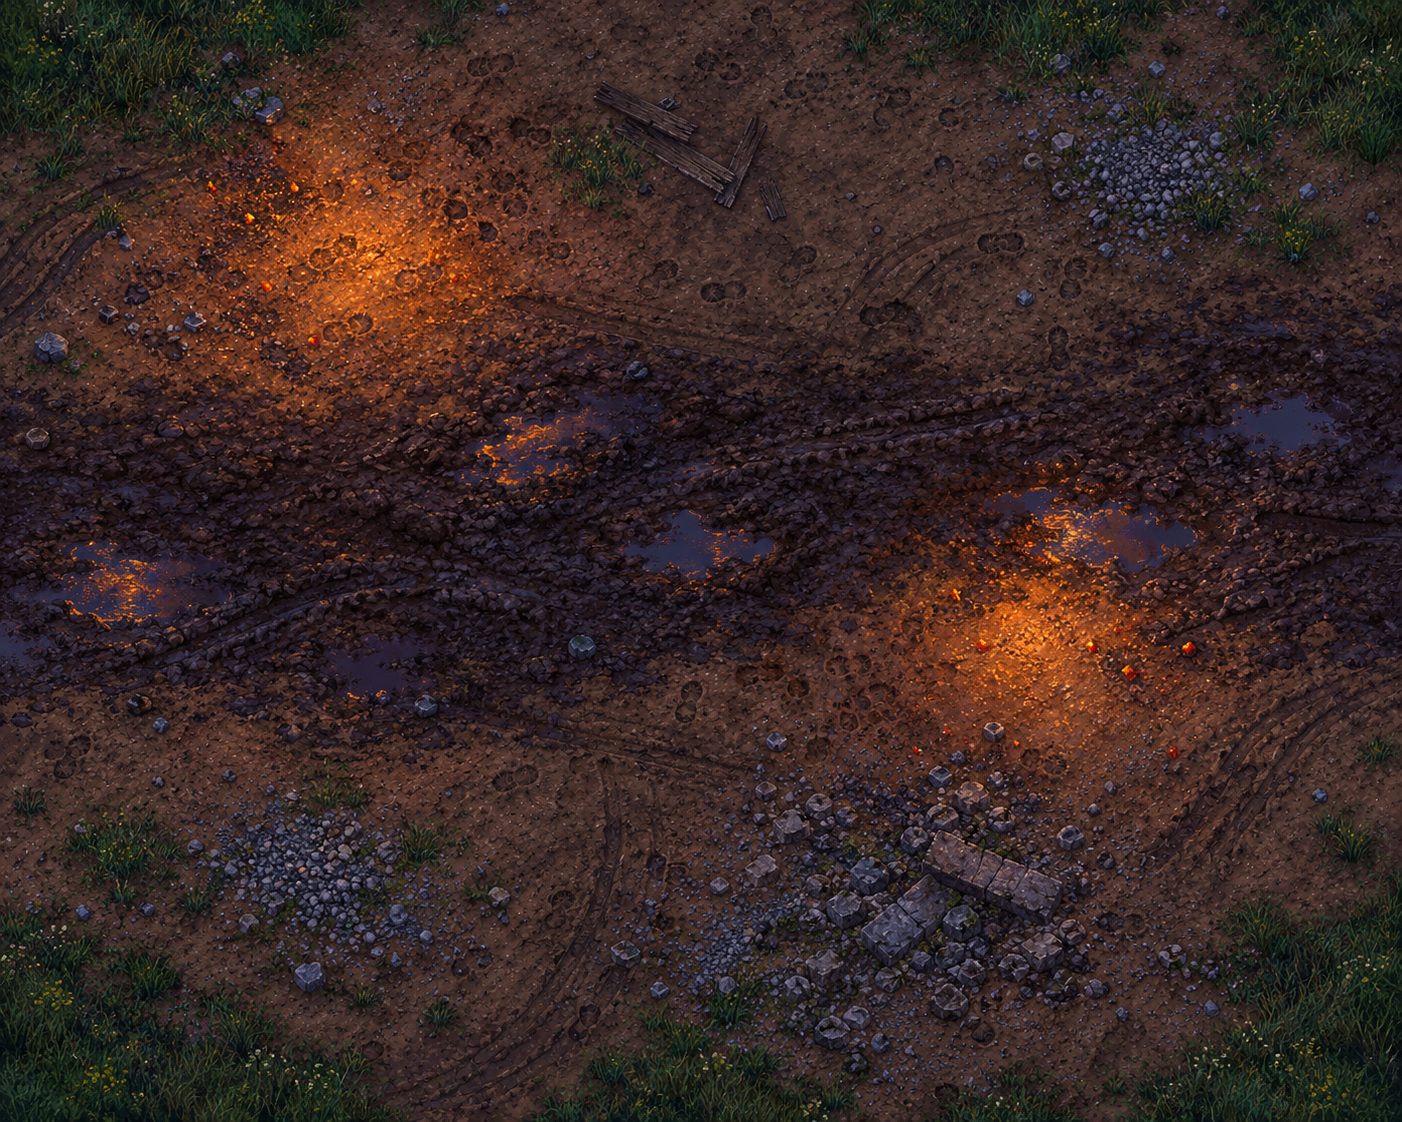
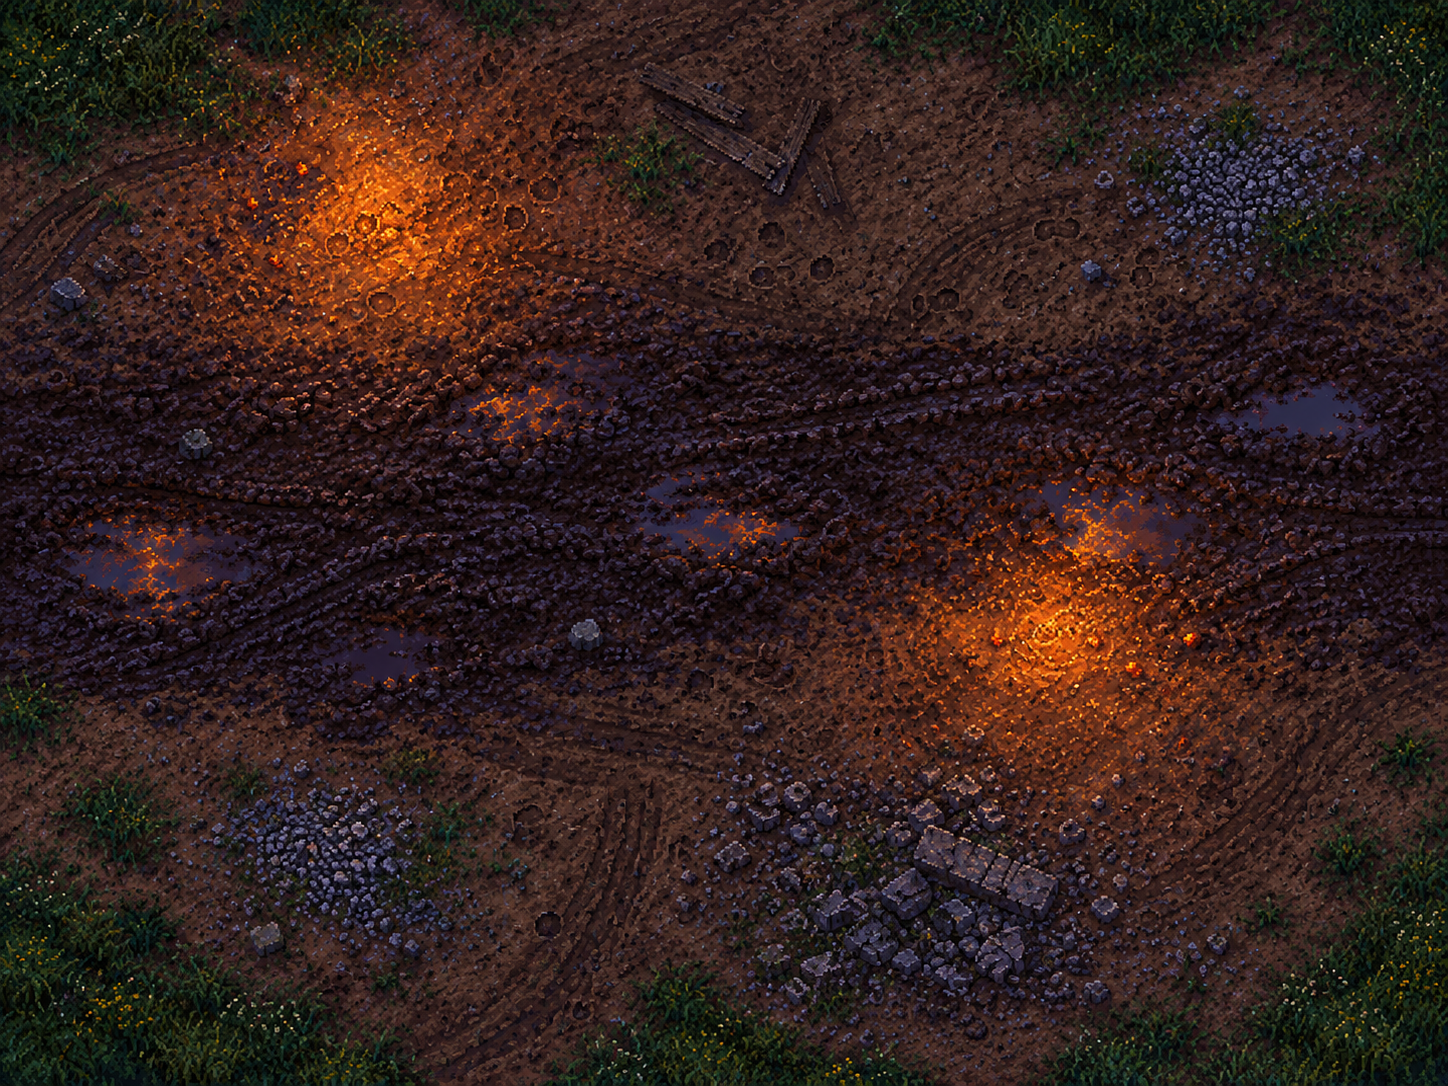
feat(render): terreno dipinto 4:3 per la mappa 12x9

diff --git a/README.md b/README.md
@@ -46,7 +46,7 @@ npm run build    # build di produzione in dist/
 La grafica è **provvisoria**:
 
 - soldati: sprite sheet di Final Fantasy Brave Exvius in `public/sprites/<squadra>/<classe>/` (idle animato, frame d'attacco e corsa `move.png`). Ramza e Fran hanno un vero ciclo di corsa a 4 frame; gli altri personaggi hanno una sola posa di corsa, accompagnata dal saltello. Se una sheet `move` manca o non si carica si usa l'idle (senza perdere idle e attacco). Giocatore: Tidus (guardiano), Ramza (esploratore), Fran (balestriere). Nemico: Garland (guardiano), Agrias (esploratore), Lulu (balestriere, che lancia Fuoco con la sua animazione di incantesimo e una palla di fuoco disegnata da codice). Le sheet sono descritte in `src/render/spriteManifest.ts` e caricate da `src/render/assetMap.ts`. Gli sprite procedurali 12×16 di `src/render/spriteFactory.ts` restano come ripiego automatico se una sheet non si carica;
-- terreno: la mappa è 12×9. `public/map/ground.png` è stato generato per una mappa 10×8 e per ora viene stirato di circa il 7% sulla 12×9, finché non se ne genera uno 4:3. Immagine dipinta vista dall'alto in `public/map/ground.png` (generata con Gemini), proiettata sul rombo isometrico da `src/render/groundGeometry.ts` e `loadGround` in `src/render/assetMap.ts`. Le due pozze di luce dell'immagine coincidono con i due bracieri (celle 3,3 e 8,5). Se l'immagine manca, `src/render/terrain.ts` disegna il terreno da codice;
+- terreno: la mappa è 12×9. Immagine dipinta vista dall'alto in `public/map/ground.png` (generata con Gemini), proiettata sul rombo isometrico da `src/render/groundGeometry.ts` e `loadGround` in `src/render/assetMap.ts`. L'immagine è 4:3, come la mappa. La pozza di luce di destra cade sul braciere (8,5); quella di sinistra è dipinta circa 1,4 caselle più in alto del braciere (3,3). Se l'immagine manca, `src/render/terrain.ts` disegna il terreno da codice;
 - oggetti (tenda, rovina, bracieri, carro, casse, staccionata): foglio dipinto su sfondo magenta in `public/map/props.png` (generato con Gemini). `src/render/propKey.ts` toglie il magenta, `src/render/propManifest.ts` indica riquadro, punto a terra e scala di ogni oggetto. I blocchi di gioco (quali caselle bloccano movimento e tiro) sono nei dati di `src/engine/arena.ts`, disposti in modo simmetrico per punto. Se il foglio manca, `src/render/terrain.ts` li disegna da codice;
 - luci, braci e vignettatura: `src/render/effects.ts`.
 
